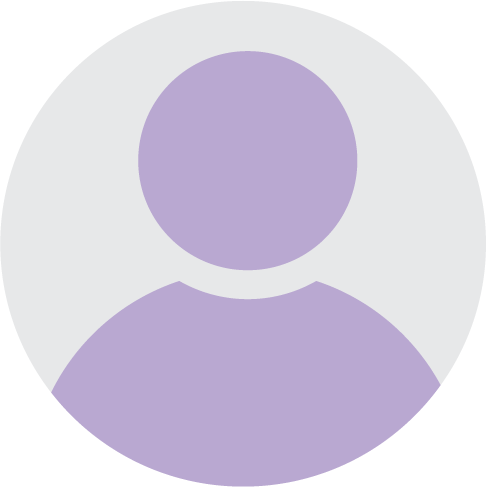
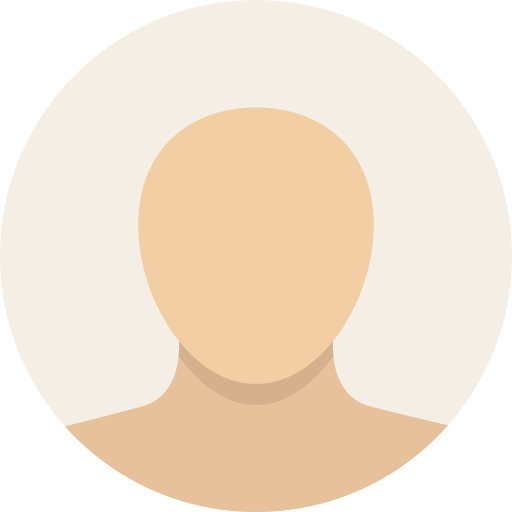
Profile colors seting was added.

diff --git a/app/assets/javascripts/application/i18n/translations.js b/app/assets/javascripts/application/i18n/translations.js
@@ -1,3 +1,3 @@
 I18n.translations || (I18n.translations = {});
-I18n.translations["en"] = I18n.extend((I18n.translations["en"] || {}), {"activerecord":{"attributes":{"question":{"answer":"Answer","text":"Question"},"user":{"avatar_url":"Your Avatar URL","email":"Login (email)","name":"Name","password":"Password","password_confirmation":"Confirm password","theme_color":"Background color","username":"Username"}},"errors":{"messages":{"record_invalid":"Validation failed: %{errors}","restrict_dependent_destroy":{"has_many":"Cannot delete record because dependent %{record} exist","has_one":"Cannot delete record because a dependent %{record} exists"}}},"models":{"question":"Question","user":"User"}},"app":{"name":"Good questions"},"controllers":{"app":{"access_denied":"Access denied"},"likes":{"already_liked":"You cannot like more than once","created":"Like successfully added","destroyed":"Like successfully deleted","register":"Register on the site to like questions."},"questions":{"created":"Question added","destroyed":"Question deleted","updated":"Question updated"},"sessions":{"create_error":"Invalid email or password","created":"Signed in successfully!","destroyed":"You are logged out. Come to us again!"},"users":{"already_logged_in":"You are already signed in!","created":"User successfully registered!","destroyed":"Your profile successfully deleted!","updated":"Your profile successfully updated!"}},"date":{"abbr_day_names":["Sun","Mon","Tue","Wed","Thu","Fri","Sat"],"abbr_month_names":[null,"Jan","Feb","Mar","Apr","May","Jun","Jul","Aug","Sep","Oct","Nov","Dec"],"day_names":["Sunday","Monday","Tuesday","Wednesday","Thursday","Friday","Saturday"],"formats":{"default":"%Y-%m-%d","long":"%B %d, %Y","short":"%b %d"},"month_names":[null,"January","February","March","April","May","June","July","August","September","October","November","December"],"order":["year","month","day"]},"datetime":{"distance_in_words":{"about_x_hours":{"one":"about 1 hour","other":"about %{count} hours"},"about_x_months":{"one":"about 1 month","other":"about %{count} months"},"about_x_years":{"one":"about 1 year","other":"about %{count} years"},"almost_x_years":{"one":"almost 1 year","other":"almost %{count} years"},"half_a_minute":"half a minute","less_than_x_minutes":{"one":"less than a minute","other":"less than %{count} minutes"},"less_than_x_seconds":{"one":"less than 1 second","other":"less than %{count} seconds"},"over_x_years":{"one":"over 1 year","other":"over %{count} years"},"x_days":{"one":"1 day","other":"%{count} days"},"x_minutes":{"one":"1 minute","other":"%{count} minutes"},"x_months":{"one":"1 month","other":"%{count} months"},"x_seconds":{"one":"1 second","other":"%{count} seconds"},"x_years":{"one":"1 year","other":"%{count} years"}},"prompts":{"day":"Day","hour":"Hour","minute":"Minute","month":"Month","second":"Seconds","year":"Year"}},"errors":{"attributes":{"username":{"invalid":"may include only latin letters, digits or underscores"}},"connection_refused":"Oops! Failed to connect to the Web Console middleware.\nPlease make sure a rails development server is running.\n","format":"%{attribute} %{message}","messages":{"accepted":"must be accepted","blank":"can't be blank","confirmation":"doesn't match %{attribute}","empty":"can't be empty","equal_to":"must be equal to %{count}","even":"must be even","exclusion":"is reserved","greater_than":"must be greater than %{count}","greater_than_or_equal_to":"must be greater than or equal to %{count}","inclusion":"is not included in the list","invalid":"is invalid","less_than":"must be less than %{count}","less_than_or_equal_to":"must be less than or equal to %{count}","model_invalid":"Validation failed: %{errors}","not_a_number":"is not a number","not_an_integer":"must be an integer","odd":"must be odd","other_than":"must be other than %{count}","present":"must be blank","required":"must exist","taken":"has already been taken","too_long":{"one":"is too long (maximum is 1 character)","other":"is too long (maximum is %{count} characters)"},"too_short":{"one":"is too short (minimum is 1 character)","other":"is too short (minimum is %{count} characters)"},"wrong_length":{"one":"is the wrong length (should be 1 character)","other":"is the wrong length (should be %{count} characters)"}},"template":{"body":"There were problems with the following fields:","header":{"one":"1 error prohibited this %{model} from being saved","other":"%{count} errors prohibited this %{model} from being saved"}},"unacceptable_request":"A supported version is expected in the Accept header.\n","unavailable_session":"Session %{id} is no longer available in memory.\n\nIf you happen to run on a multi-process server (like Unicorn or Puma) the process\nthis request hit doesn't store %{id} in memory. Consider turning the number of\nprocesses/workers to one (1) or using a different server in development.\n"},"hashtags":{"show":{"questions_with_tag":"Questions with hashtag: "}},"helpers":{"select":{"prompt":"Please select"},"submit":{"create":"Create %{model}","submit":"Save %{model}","update":"Update %{model}"}},"i18n":{"plural":{"keys":["one","other"],"rule":{}}},"layouts":{"user_menu":{"log_in":"Sign In","log_out":"Log Out","sign_up":"Sign Up"}},"number":{"currency":{"format":{"delimiter":",","format":"%u%n","precision":2,"separator":".","significant":false,"strip_insignificant_zeros":false,"unit":"$"}},"format":{"delimiter":",","precision":3,"separator":".","significant":false,"strip_insignificant_zeros":false},"human":{"decimal_units":{"format":"%n %u","units":{"billion":"Billion","million":"Million","quadrillion":"Quadrillion","thousand":"Thousand","trillion":"Trillion","unit":""}},"format":{"delimiter":"","precision":3,"significant":true,"strip_insignificant_zeros":true},"storage_units":{"format":"%n %u","units":{"byte":{"one":"Byte","other":"Bytes"},"eb":"EB","gb":"GB","kb":"KB","mb":"MB","pb":"PB","tb":"TB"}}},"percentage":{"format":{"delimiter":"","format":"%n%"}},"precision":{"format":{"delimiter":""}}},"questions":{"form":{"alt":" or ","back":"back","save":"Save"},"hashtag_question":{"empty":"There are no such questions on the site!","go_to_question":"(go to question)","question_for":"Question for "},"question":{"anonymous":"Guest of site","confirm_destroy":"Are you sure you want to delete this question?","dislike":"Dislike","like":"Like","likes":{"one":"%{count} Like","other":"%{count} Likes"},"link":{"copied":"Copied: %{link}","copy":"Copy question link to clipboard","name":"Link"},"question_number":"Question №%{count}"}},"recaptcha":{"errors":{"verification_failed":"Please, confirm that you're a human"}},"sessions":{"new":{"form":{"email":"Login (email)","password":"Password","sign_in":"Sign In"},"title":"Sign In"}},"support":{"array":{"last_word_connector":", and ","two_words_connector":" and ","words_connector":", "}},"time":{"am":"am","formats":{"default":"%a, %d %b %Y %H:%M:%S %z","long":"%B %d, %Y %H:%M","short":"%d %b %H:%M"},"pm":"pm"},"users":{"edit":{"form":{"confirm_destroy":"Are you sure you want to delete you account?","destroy":"Delete my account","new_password":"New password","new_password_confirmation":"Confirm new password","password_change":"Leave fields blank to keep your current password","save":"Save"},"title":"Edit profile"},"index":{"hashtags_title":"Our hashtags","users_title":"Our users"},"new":{"form":{"register":"Register now"},"title":"Join us!"},"show":{"answer":{"one":"answer","other":"answers"},"ask_me":"Ask me","edit":"Edit profile","form":{"ask":"Ask question","for":"Your question for"},"question":{"one":"question","other":"questions"},"unanswered":{"one":"unanswered","other":"unanswered"}}}});
-I18n.translations["ru"] = I18n.extend((I18n.translations["ru"] || {}), {"activerecord":{"attributes":{"question":{"answer":"Ответ","text":"Вопрос"},"user":{"avatar_url":"URL вашей аватарки","email":"Логин (email)","name":"Имя","password":"Пароль","password_confirmation":"Пароль ещё раз","theme_color":"Цвет фона","username":"Никнейм"}},"errors":{"messages":{"record_invalid":"Возникли ошибки: %{errors}","restrict_dependent_destroy":{"has_many":"Невозможно удалить запись, так как существуют зависимости: %{record}","has_one":"Невозможно удалить запись, так как существует зависимость: %{record}"}}},"models":{"question":"Вопрос","user":"Пользователь"}},"app":{"name":"Хорошие вопросы"},"controllers":{"app":{"access_denied":"В доступе отказано"},"likes":{"already_liked":"Вы не можете поставить лайк более одного раза","created":"Лайк успешно поставлен","destroyed":"Лайк успешно удалён","register":"Зарегистрируйтесь на сайте, чтобы ставить лайки к вопросам"},"questions":{"created":"Вопрос задан","destroyed":"Вопрос удалён","updated":"Вопрос изменён"},"sessions":{"create_error":"Неправильный email или пароль","created":"Вы успешно вошли в систему!","destroyed":"Вы вышли из системы. Приходите к нам ещё!"},"users":{"already_logged_in":"Вы уже вошли в систему!","created":"Пользователь успешно зарегистрирован!","destroyed":"Ваш профиль успешно удалён!","updated":"Ваш профиль успешно обновлён!"}},"date":{"abbr_day_names":["Вс","Пн","Вт","Ср","Чт","Пт","Сб"],"abbr_month_names":[null,"янв.","февр.","марта","апр.","мая","июня","июля","авг.","сент.","окт.","нояб.","дек."],"day_names":["воскресенье","понедельник","вторник","среда","четверг","пятница","суббота"],"formats":{"default":"%d.%m.%Y","long":"%-d %B %Y","short":"%-d %b"},"month_names":[null,"января","февраля","марта","апреля","мая","июня","июля","августа","сентября","октября","ноября","декабря"],"order":["day","month","year"]},"datetime":{"distance_in_words":{"about_x_hours":{"few":"около %{count} часов","many":"около %{count} часов","one":"около %{count} часа","other":"около %{count} часа"},"about_x_months":{"few":"около %{count} месяцев","many":"около %{count} месяцев","one":"около %{count} месяца","other":"около %{count} месяца"},"about_x_years":{"few":"около %{count} лет","many":"около %{count} лет","one":"около %{count} года","other":"около %{count} лет"},"almost_x_years":{"few":"почти %{count} года","many":"почти %{count} лет","one":"почти 1 год","other":"почти %{count} лет"},"half_a_minute":"меньше минуты","less_than_x_minutes":{"few":"меньше %{count} минут","many":"меньше %{count} минут","one":"меньше %{count} минуты","other":"меньше %{count} минуты"},"less_than_x_seconds":{"few":"меньше %{count} секунд","many":"меньше %{count} секунд","one":"меньше %{count} секунды","other":"меньше %{count} секунды"},"over_x_years":{"few":"больше %{count} лет","many":"больше %{count} лет","one":"больше %{count} года","other":"больше %{count} лет"},"x_days":{"few":"%{count} дня","many":"%{count} дней","one":"%{count} день","other":"%{count} дня"},"x_minutes":{"few":"%{count} минуты","many":"%{count} минут","one":"%{count} минуту","other":"%{count} минуты"},"x_months":{"few":"%{count} месяца","many":"%{count} месяцев","one":"%{count} месяц","other":"%{count} месяца"},"x_seconds":{"few":"%{count} секунды","many":"%{count} секунд","one":"%{count} секунду","other":"%{count} секунды"},"x_years":{"few":"%{count} года","many":"%{count} лет","one":"%{count} год","other":"%{count} года"}},"prompts":{"day":"День","hour":"Часов","minute":"Минут","month":"Месяц","second":"Секунд","year":"Год"}},"errors":{"attributes":{"username":{"invalid":"может содержать только латинские буквы, цифры и знак подчеркивания"}},"connection_refused":"Oops! Failed to connect to the Web Console middleware.\nPlease make sure a rails development server is running.\n","format":"%{attribute} %{message}","messages":{"accepted":"нужно подтвердить","blank":"не может быть пустым","confirmation":"не совпадает со значением поля %{attribute}","empty":"не может быть пустым","equal_to":"может иметь лишь значение, равное %{count}","even":"может иметь лишь нечетное значение","exclusion":"имеет зарезервированное значение","greater_than":"может иметь значение большее %{count}","greater_than_or_equal_to":"может иметь значение большее или равное %{count}","inclusion":"имеет непредусмотренное значение","invalid":"имеет неверное значение","less_than":"может иметь значение меньшее чем %{count}","less_than_or_equal_to":"может иметь значение меньшее или равное %{count}","model_invalid":"Возникли ошибки: %{errors}","not_a_number":"не является числом","not_an_integer":"не является целым числом","odd":"может иметь лишь четное значение","other_than":"должно отличаться от %{count}","present":"нужно оставить пустым","required":"не может отсутствовать","taken":"уже существует","too_long":{"few":"слишком большой длины (не может быть больше чем %{count} символа)","many":"слишком большой длины (не может быть больше чем %{count} символов)","one":"слишком большой длины (не может быть больше чем %{count} символ)","other":"слишком большой длины (не может быть больше чем %{count} символа)"},"too_short":{"few":"недостаточной длины (не может быть меньше %{count} символов)","many":"недостаточной длины (не может быть меньше %{count} символов)","one":"недостаточной длины (не может быть меньше %{count} символа)","other":"недостаточной длины (не может быть меньше %{count} символа)"},"wrong_length":{"few":"неверной длины (может быть длиной ровно %{count} символа)","many":"неверной длины (может быть длиной ровно %{count} символов)","one":"неверной длины (может быть длиной ровно %{count} символ)","other":"неверной длины (может быть длиной ровно %{count} символа)"}},"template":{"body":"Проблемы возникли со следующими полями:","header":{"few":"%{model}: сохранение не удалось из-за %{count} ошибок","many":"%{model}: сохранение не удалось из-за %{count} ошибок","one":"%{model}: сохранение не удалось из-за %{count} ошибки","other":"%{model}: сохранение не удалось из-за %{count} ошибки"}},"unacceptable_request":"A supported version is expected in the Accept header.\n","unavailable_session":"Session %{id} is no longer available in memory.\n\nIf you happen to run on a multi-process server (like Unicorn or Puma) the process\nthis request hit doesn't store %{id} in memory. Consider turning the number of\nprocesses/workers to one (1) or using a different server in development.\n"},"hashtags":{"show":{"questions_with_tag":"Вопросы с хэштегом: "}},"helpers":{"select":{"prompt":"Выберите: "},"submit":{"create":"Создать %{model}","submit":"Сохранить %{model}","update":"Сохранить %{model}"}},"i18n":{"plural":{"keys":["one","few","many","other"],"rule":{}},"transliterate":{"rule":{}}},"layouts":{"user_menu":{"log_in":"Войти","log_out":"Выйти","sign_up":"Зарегистрироваться"}},"number":{"currency":{"format":{"delimiter":" ","format":"%n %u","precision":2,"separator":",","significant":false,"strip_insignificant_zeros":false,"unit":"руб."}},"format":{"delimiter":" ","precision":3,"separator":",","significant":false,"strip_insignificant_zeros":false},"human":{"decimal_units":{"format":"%n %u","units":{"billion":{"few":"миллиардов","many":"миллиардов","one":"миллиард","other":"миллиардов"},"million":{"few":"миллионов","many":"миллионов","one":"миллион","other":"миллионов"},"quadrillion":{"few":"квадриллионов","many":"квадриллионов","one":"квадриллион","other":"квадриллионов"},"thousand":{"few":"тысяч","many":"тысяч","one":"тысяча","other":"тысяч"},"trillion":{"few":"триллионов","many":"триллионов","one":"триллион","other":"триллионов"},"unit":""}},"format":{"delimiter":"","precision":1,"significant":false,"strip_insignificant_zeros":false},"storage_units":{"format":"%n %u","units":{"byte":{"few":"байта","many":"байт","one":"байт","other":"байта"},"eb":"ЭБ","gb":"ГБ","kb":"КБ","mb":"МБ","pb":"ПБ","tb":"ТБ"}}},"percentage":{"format":{"delimiter":"","format":"%n%"}},"precision":{"format":{"delimiter":""}}},"questions":{"form":{"alt":" или ","back":"вернуться","save":"Сохранить"},"hashtag_question":{"empty":"Таких вопросов не существует на сайте!","go_to_question":"(перейти к вопросу)","question_for":"Вопрос для "},"question":{"anonymous":"Гость сайта","confirm_destroy":"Точно удалить вопрос?","dislike":"Дизлайк","like":"Лайк","likes":{"few":"%{count} Лайка","many":"%{count} Лайков","one":"%{count} Лайк","other":"%{count} Лайков"},"link":{"copied":"Скопировано: %{link}","copy":"Скопировать ссылку на вопрос в буфер обмена","name":"Ссылка"},"question_number":"Вопрос №%{count}"}},"recaptcha":{"errors":{"verification_failed":"Пожалуйста, подтвердите, что вы не робот"}},"sessions":{"new":{"form":{"email":"Логин (email)","password":"Пароль","sign_in":"Войти"},"title":"Войти на сайт"}},"support":{"array":{"last_word_connector":" и ","two_words_connector":" и ","words_connector":", "}},"time":{"am":"утра","formats":{"default":"%a, %d %b %Y, %H:%M:%S %z","long":"%d %B %Y, %H:%M","short":"%d %b, %H:%M"},"pm":"вечера"},"users":{"edit":{"form":{"confirm_destroy":"Вы уверены, что хотите удалить свой аккаунт?","destroy":"Удалить аккаунт","new_password":"Новый пароль","new_password_confirmation":"Новый пароль ещё раз","password_change":"Если не хотите менять пароль - оставьте эти поля пустыми!","save":"Сохранить"},"title":"Править профиль"},"index":{"hashtags_title":"Наши хэштеги","users_title":"Наши пользователи"},"new":{"form":{"register":"Зарегистрироваться"},"title":"Присоединяйся к нам!"},"show":{"answer":{"few":"ответа","many":"ответов","one":"ответ","other":"ответов"},"ask_me":"Спроси меня","edit":"Редактировать профиль","form":{"ask":"Задать вопрос","for":"Ваш вопрос для"},"question":{"few":"вопроса","many":"вопросов","one":"вопрос","other":"вопросов"},"unanswered":{"few":"безответных","many":"безответных","one":"безответный","other":"безответных"}}}});
+I18n.translations["en"] = I18n.extend((I18n.translations["en"] || {}), {"activerecord":{"attributes":{"question":{"answer":"Answer","text":"Question"},"user":{"avatar_bg_color":"Background color","avatar_border_color":"Border color","avatar_url":"Your Avatar URL","email":"Login (email)","name":"Name","password":"Password","password_confirmation":"Confirm password","profile_text_color":"Text color","username":"Username"}},"errors":{"messages":{"record_invalid":"Validation failed: %{errors}","restrict_dependent_destroy":{"has_many":"Cannot delete record because dependent %{record} exist","has_one":"Cannot delete record because a dependent %{record} exists"}}},"models":{"question":"Question","user":"User"}},"app":{"name":"Good questions"},"controllers":{"app":{"access_denied":"Access denied"},"likes":{"already_liked":"You cannot like more than once","created":"Like successfully added","destroyed":"Like successfully deleted","register":"Register on the site to like questions."},"questions":{"created":"Question added","destroyed":"Question deleted","updated":"Question updated"},"sessions":{"create_error":"Invalid email or password","created":"Signed in successfully!","destroyed":"You are logged out. Come to us again!"},"users":{"already_logged_in":"You are already signed in!","created":"User successfully registered!","destroyed":"Your profile successfully deleted!","updated":"Your profile successfully updated!"}},"date":{"abbr_day_names":["Sun","Mon","Tue","Wed","Thu","Fri","Sat"],"abbr_month_names":[null,"Jan","Feb","Mar","Apr","May","Jun","Jul","Aug","Sep","Oct","Nov","Dec"],"day_names":["Sunday","Monday","Tuesday","Wednesday","Thursday","Friday","Saturday"],"formats":{"default":"%Y-%m-%d","long":"%B %d, %Y","short":"%b %d"},"month_names":[null,"January","February","March","April","May","June","July","August","September","October","November","December"],"order":["year","month","day"]},"datetime":{"distance_in_words":{"about_x_hours":{"one":"about 1 hour","other":"about %{count} hours"},"about_x_months":{"one":"about 1 month","other":"about %{count} months"},"about_x_years":{"one":"about 1 year","other":"about %{count} years"},"almost_x_years":{"one":"almost 1 year","other":"almost %{count} years"},"half_a_minute":"half a minute","less_than_x_minutes":{"one":"less than a minute","other":"less than %{count} minutes"},"less_than_x_seconds":{"one":"less than 1 second","other":"less than %{count} seconds"},"over_x_years":{"one":"over 1 year","other":"over %{count} years"},"x_days":{"one":"1 day","other":"%{count} days"},"x_minutes":{"one":"1 minute","other":"%{count} minutes"},"x_months":{"one":"1 month","other":"%{count} months"},"x_seconds":{"one":"1 second","other":"%{count} seconds"},"x_years":{"one":"1 year","other":"%{count} years"}},"prompts":{"day":"Day","hour":"Hour","minute":"Minute","month":"Month","second":"Seconds","year":"Year"}},"errors":{"attributes":{"username":{"invalid":"may include only latin letters, digits or underscores"}},"connection_refused":"Oops! Failed to connect to the Web Console middleware.\nPlease make sure a rails development server is running.\n","format":"%{attribute} %{message}","messages":{"accepted":"must be accepted","blank":"can't be blank","confirmation":"doesn't match %{attribute}","empty":"can't be empty","equal_to":"must be equal to %{count}","even":"must be even","exclusion":"is reserved","greater_than":"must be greater than %{count}","greater_than_or_equal_to":"must be greater than or equal to %{count}","inclusion":"is not included in the list","invalid":"is invalid","less_than":"must be less than %{count}","less_than_or_equal_to":"must be less than or equal to %{count}","model_invalid":"Validation failed: %{errors}","not_a_number":"is not a number","not_an_integer":"must be an integer","odd":"must be odd","other_than":"must be other than %{count}","present":"must be blank","required":"must exist","taken":"has already been taken","too_long":{"one":"is too long (maximum is 1 character)","other":"is too long (maximum is %{count} characters)"},"too_short":{"one":"is too short (minimum is 1 character)","other":"is too short (minimum is %{count} characters)"},"wrong_length":{"one":"is the wrong length (should be 1 character)","other":"is the wrong length (should be %{count} characters)"}},"template":{"body":"There were problems with the following fields:","header":{"one":"1 error prohibited this %{model} from being saved","other":"%{count} errors prohibited this %{model} from being saved"}},"unacceptable_request":"A supported version is expected in the Accept header.\n","unavailable_session":"Session %{id} is no longer available in memory.\n\nIf you happen to run on a multi-process server (like Unicorn or Puma) the process\nthis request hit doesn't store %{id} in memory. Consider turning the number of\nprocesses/workers to one (1) or using a different server in development.\n"},"hashtags":{"show":{"questions_with_tag":"Questions with hashtag: "}},"helpers":{"select":{"prompt":"Please select"},"submit":{"create":"Create %{model}","submit":"Save %{model}","update":"Update %{model}"}},"i18n":{"plural":{"keys":["one","other"],"rule":{}}},"layouts":{"user_menu":{"log_in":"Sign In","log_out":"Log Out","sign_up":"Sign Up"}},"number":{"currency":{"format":{"delimiter":",","format":"%u%n","precision":2,"separator":".","significant":false,"strip_insignificant_zeros":false,"unit":"$"}},"format":{"delimiter":",","precision":3,"separator":".","significant":false,"strip_insignificant_zeros":false},"human":{"decimal_units":{"format":"%n %u","units":{"billion":"Billion","million":"Million","quadrillion":"Quadrillion","thousand":"Thousand","trillion":"Trillion","unit":""}},"format":{"delimiter":"","precision":3,"significant":true,"strip_insignificant_zeros":true},"storage_units":{"format":"%n %u","units":{"byte":{"one":"Byte","other":"Bytes"},"eb":"EB","gb":"GB","kb":"KB","mb":"MB","pb":"PB","tb":"TB"}}},"percentage":{"format":{"delimiter":"","format":"%n%"}},"precision":{"format":{"delimiter":""}}},"questions":{"form":{"alt":" or ","back":"back","save":"Save"},"hashtag_question":{"empty":"There are no such questions on the site!","go_to_question":"(go to question)","question_for":"Question for "},"question":{"anonymous":"Guest of site","confirm_destroy":"Are you sure you want to delete this question?","dislike":"Dislike","like":"Like","likes":{"one":"%{count} Like","other":"%{count} Likes"},"link":{"copied":"Copied: %{link}","copy":"Copy question link to clipboard","name":"Link"},"question_number":"Question №%{count}"}},"recaptcha":{"errors":{"verification_failed":"Please, confirm that you're a human"}},"sessions":{"new":{"form":{"email":"Login (email)","password":"Password","sign_in":"Sign In"},"title":"Sign In"}},"support":{"array":{"last_word_connector":", and ","two_words_connector":" and ","words_connector":", "}},"time":{"am":"am","formats":{"default":"%a, %d %b %Y %H:%M:%S %z","long":"%B %d, %Y %H:%M","short":"%d %b %H:%M"},"pm":"pm"},"users":{"edit":{"form":{"color_preferences":"Profile colors setting","confirm_destroy":"Are you sure you want to delete you account?","destroy":"Delete my account","new_password":"New password","new_password_confirmation":"Confirm new password","password_change":"Leave fields blank to keep your current password","reset_colors":"Reset to default colors","save":"Save"},"title":"Edit profile"},"index":{"hashtags_title":"Our hashtags","users_title":"Our users"},"new":{"form":{"register":"Register now"},"title":"Join us!"},"show":{"answer":{"one":"answer","other":"answers"},"ask_me":"Ask me","edit":"Edit profile","form":{"ask":"Ask question","for":"Your question for"},"question":{"one":"question","other":"questions"},"unanswered":{"one":"unanswered","other":"unanswered"}}}});
+I18n.translations["ru"] = I18n.extend((I18n.translations["ru"] || {}), {"activerecord":{"attributes":{"question":{"answer":"Ответ","text":"Вопрос"},"user":{"avatar_bg_color":"Цвет фона","avatar_border_color":"Цвет рамки","avatar_url":"URL вашей аватарки","email":"Логин (email)","name":"Имя","password":"Пароль","password_confirmation":"Пароль ещё раз","profile_text_color":"Цвет текста","username":"Никнейм"}},"errors":{"messages":{"record_invalid":"Возникли ошибки: %{errors}","restrict_dependent_destroy":{"has_many":"Невозможно удалить запись, так как существуют зависимости: %{record}","has_one":"Невозможно удалить запись, так как существует зависимость: %{record}"}}},"models":{"question":"Вопрос","user":"Пользователь"}},"app":{"name":"Хорошие вопросы"},"controllers":{"app":{"access_denied":"В доступе отказано"},"likes":{"already_liked":"Вы не можете поставить лайк более одного раза","created":"Лайк успешно поставлен","destroyed":"Лайк успешно удалён","register":"Зарегистрируйтесь на сайте, чтобы ставить лайки к вопросам"},"questions":{"created":"Вопрос задан","destroyed":"Вопрос удалён","updated":"Вопрос изменён"},"sessions":{"create_error":"Неправильный email или пароль","created":"Вы успешно вошли в систему!","destroyed":"Вы вышли из системы. Приходите к нам ещё!"},"users":{"already_logged_in":"Вы уже вошли в систему!","created":"Пользователь успешно зарегистрирован!","destroyed":"Ваш профиль успешно удалён!","updated":"Ваш профиль успешно обновлён!"}},"date":{"abbr_day_names":["Вс","Пн","Вт","Ср","Чт","Пт","Сб"],"abbr_month_names":[null,"янв.","февр.","марта","апр.","мая","июня","июля","авг.","сент.","окт.","нояб.","дек."],"day_names":["воскресенье","понедельник","вторник","среда","четверг","пятница","суббота"],"formats":{"default":"%d.%m.%Y","long":"%-d %B %Y","short":"%-d %b"},"month_names":[null,"января","февраля","марта","апреля","мая","июня","июля","августа","сентября","октября","ноября","декабря"],"order":["day","month","year"]},"datetime":{"distance_in_words":{"about_x_hours":{"few":"около %{count} часов","many":"около %{count} часов","one":"около %{count} часа","other":"около %{count} часа"},"about_x_months":{"few":"около %{count} месяцев","many":"около %{count} месяцев","one":"около %{count} месяца","other":"около %{count} месяца"},"about_x_years":{"few":"около %{count} лет","many":"около %{count} лет","one":"около %{count} года","other":"около %{count} лет"},"almost_x_years":{"few":"почти %{count} года","many":"почти %{count} лет","one":"почти 1 год","other":"почти %{count} лет"},"half_a_minute":"меньше минуты","less_than_x_minutes":{"few":"меньше %{count} минут","many":"меньше %{count} минут","one":"меньше %{count} минуты","other":"меньше %{count} минуты"},"less_than_x_seconds":{"few":"меньше %{count} секунд","many":"меньше %{count} секунд","one":"меньше %{count} секунды","other":"меньше %{count} секунды"},"over_x_years":{"few":"больше %{count} лет","many":"больше %{count} лет","one":"больше %{count} года","other":"больше %{count} лет"},"x_days":{"few":"%{count} дня","many":"%{count} дней","one":"%{count} день","other":"%{count} дня"},"x_minutes":{"few":"%{count} минуты","many":"%{count} минут","one":"%{count} минуту","other":"%{count} минуты"},"x_months":{"few":"%{count} месяца","many":"%{count} месяцев","one":"%{count} месяц","other":"%{count} месяца"},"x_seconds":{"few":"%{count} секунды","many":"%{count} секунд","one":"%{count} секунду","other":"%{count} секунды"},"x_years":{"few":"%{count} года","many":"%{count} лет","one":"%{count} год","other":"%{count} года"}},"prompts":{"day":"День","hour":"Часов","minute":"Минут","month":"Месяц","second":"Секунд","year":"Год"}},"errors":{"attributes":{"username":{"invalid":"может содержать только латинские буквы, цифры и знак подчеркивания"}},"connection_refused":"Oops! Failed to connect to the Web Console middleware.\nPlease make sure a rails development server is running.\n","format":"%{attribute} %{message}","messages":{"accepted":"нужно подтвердить","blank":"не может быть пустым","confirmation":"не совпадает со значением поля %{attribute}","empty":"не может быть пустым","equal_to":"может иметь лишь значение, равное %{count}","even":"может иметь лишь нечетное значение","exclusion":"имеет зарезервированное значение","greater_than":"может иметь значение большее %{count}","greater_than_or_equal_to":"может иметь значение большее или равное %{count}","inclusion":"имеет непредусмотренное значение","invalid":"имеет неверное значение","less_than":"может иметь значение меньшее чем %{count}","less_than_or_equal_to":"может иметь значение меньшее или равное %{count}","model_invalid":"Возникли ошибки: %{errors}","not_a_number":"не является числом","not_an_integer":"не является целым числом","odd":"может иметь лишь четное значение","other_than":"должно отличаться от %{count}","present":"нужно оставить пустым","required":"не может отсутствовать","taken":"уже существует","too_long":{"few":"слишком большой длины (не может быть больше чем %{count} символа)","many":"слишком большой длины (не может быть больше чем %{count} символов)","one":"слишком большой длины (не может быть больше чем %{count} символ)","other":"слишком большой длины (не может быть больше чем %{count} символа)"},"too_short":{"few":"недостаточной длины (не может быть меньше %{count} символов)","many":"недостаточной длины (не может быть меньше %{count} символов)","one":"недостаточной длины (не может быть меньше %{count} символа)","other":"недостаточной длины (не может быть меньше %{count} символа)"},"wrong_length":{"few":"неверной длины (может быть длиной ровно %{count} символа)","many":"неверной длины (может быть длиной ровно %{count} символов)","one":"неверной длины (может быть длиной ровно %{count} символ)","other":"неверной длины (может быть длиной ровно %{count} символа)"}},"template":{"body":"Проблемы возникли со следующими полями:","header":{"few":"%{model}: сохранение не удалось из-за %{count} ошибок","many":"%{model}: сохранение не удалось из-за %{count} ошибок","one":"%{model}: сохранение не удалось из-за %{count} ошибки","other":"%{model}: сохранение не удалось из-за %{count} ошибки"}},"unacceptable_request":"A supported version is expected in the Accept header.\n","unavailable_session":"Session %{id} is no longer available in memory.\n\nIf you happen to run on a multi-process server (like Unicorn or Puma) the process\nthis request hit doesn't store %{id} in memory. Consider turning the number of\nprocesses/workers to one (1) or using a different server in development.\n"},"hashtags":{"show":{"questions_with_tag":"Вопросы с хэштегом: "}},"helpers":{"select":{"prompt":"Выберите: "},"submit":{"create":"Создать %{model}","submit":"Сохранить %{model}","update":"Сохранить %{model}"}},"i18n":{"plural":{"keys":["one","few","many","other"],"rule":{}},"transliterate":{"rule":{}}},"layouts":{"user_menu":{"log_in":"Войти","log_out":"Выйти","sign_up":"Зарегистрироваться"}},"number":{"currency":{"format":{"delimiter":" ","format":"%n %u","precision":2,"separator":",","significant":false,"strip_insignificant_zeros":false,"unit":"руб."}},"format":{"delimiter":" ","precision":3,"separator":",","significant":false,"strip_insignificant_zeros":false},"human":{"decimal_units":{"format":"%n %u","units":{"billion":{"few":"миллиардов","many":"миллиардов","one":"миллиард","other":"миллиардов"},"million":{"few":"миллионов","many":"миллионов","one":"миллион","other":"миллионов"},"quadrillion":{"few":"квадриллионов","many":"квадриллионов","one":"квадриллион","other":"квадриллионов"},"thousand":{"few":"тысяч","many":"тысяч","one":"тысяча","other":"тысяч"},"trillion":{"few":"триллионов","many":"триллионов","one":"триллион","other":"триллионов"},"unit":""}},"format":{"delimiter":"","precision":1,"significant":false,"strip_insignificant_zeros":false},"storage_units":{"format":"%n %u","units":{"byte":{"few":"байта","many":"байт","one":"байт","other":"байта"},"eb":"ЭБ","gb":"ГБ","kb":"КБ","mb":"МБ","pb":"ПБ","tb":"ТБ"}}},"percentage":{"format":{"delimiter":"","format":"%n%"}},"precision":{"format":{"delimiter":""}}},"questions":{"form":{"alt":" или ","back":"вернуться","save":"Сохранить"},"hashtag_question":{"empty":"Таких вопросов не существует на сайте!","go_to_question":"(перейти к вопросу)","question_for":"Вопрос для "},"question":{"anonymous":"Гость сайта","confirm_destroy":"Точно удалить вопрос?","dislike":"Дизлайк","like":"Лайк","likes":{"few":"%{count} Лайка","many":"%{count} Лайков","one":"%{count} Лайк","other":"%{count} Лайков"},"link":{"copied":"Скопировано: %{link}","copy":"Скопировать ссылку на вопрос в буфер обмена","name":"Ссылка"},"question_number":"Вопрос №%{count}"}},"recaptcha":{"errors":{"verification_failed":"Пожалуйста, подтвердите, что вы не робот"}},"sessions":{"new":{"form":{"email":"Логин (email)","password":"Пароль","sign_in":"Войти"},"title":"Войти на сайт"}},"support":{"array":{"last_word_connector":" и ","two_words_connector":" и ","words_connector":", "}},"time":{"am":"утра","formats":{"default":"%a, %d %b %Y, %H:%M:%S %z","long":"%d %B %Y, %H:%M","short":"%d %b, %H:%M"},"pm":"вечера"},"users":{"edit":{"form":{"color_preferences":"Настройка цветов профиля","confirm_destroy":"Вы уверены, что хотите удалить свой аккаунт?","destroy":"Удалить аккаунт","new_password":"Новый пароль","new_password_confirmation":"Новый пароль ещё раз","password_change":"Если не хотите менять пароль - оставьте эти поля пустыми!","reset_colors":"Вернуть цвета по умолчанию","save":"Сохранить"},"title":"Править профиль"},"index":{"hashtags_title":"Наши хэштеги","users_title":"Наши пользователи"},"new":{"form":{"register":"Зарегистрироваться"},"title":"Присоединяйся к нам!"},"show":{"answer":{"few":"ответа","many":"ответов","one":"ответ","other":"ответов"},"ask_me":"Спроси меня","edit":"Редактировать профиль","form":{"ask":"Задать вопрос","for":"Ваш вопрос для"},"question":{"few":"вопроса","many":"вопросов","one":"вопрос","other":"вопросов"},"unanswered":{"few":"безответных","many":"безответных","one":"безответный","other":"безответных"}}}});

diff --git a/app/assets/stylesheets/form.css b/app/assets/stylesheets/form.css
@@ -22,6 +22,17 @@
   font-size: 16px;
 }
 
+.form-label-color {
+  display: inline-block;
+  width: 130px;
+  margin-bottom: 5px;
+}
+
+.form-color-field {
+  width: 50px;
+  height: 25px;
+}
+
 .form-action {
   margin-top: 20px;
 }

diff --git a/app/assets/stylesheets/grid.css b/app/assets/stylesheets/grid.css
@@ -62,6 +62,11 @@
   width: 33.33%;
 }
 
+.column-1-3-right {
+  float: right;
+  width: 33.33%;
+}
+
 @media (max-width: 960px) {
   .column-3-4,
   .column-1-4,

diff --git a/app/models/user.rb b/app/models/user.rb
@@ -10,7 +10,8 @@ class User < ApplicationRecord
 
   validates :username, presence: true, uniqueness: true, length: { maximum: 40 }, format: { with: /\A[0-9a-z_]+\z/i }
   validates :email, presence: true, uniqueness: true, format: { with: /\A[^@\s]+@(?:[-a-z0-9]+\.)+[a-z]{2,}\z/i}
-  validates :theme_color, format: { with: /\A#[\h]{6}\z/ }
+  validates :avatar_bg_color, :avatar_border_color, :profile_text_color,
+            format: { with: /\A#[\h]{6}\z/ }, allow_nil: true
 
   # Второй способ валидации почты пользователя с помощью gem email_address
   # https://github.com/afair/email_address

diff --git a/db/schema.rb b/db/schema.rb
@@ -10,7 +10,7 @@
 #
 # It's strongly recommended that you check this file into your version control system.
 
-ActiveRecord::Schema.define(version: 2019_02_25_101439) do
+ActiveRecord::Schema.define(version: 2019_03_08_101100) do
 
   create_table "hashtags", force: :cascade do |t|
     t.string "name"
@@ -54,7 +54,9 @@ ActiveRecord::Schema.define(version: 2019_02_25_101439) do
     t.string "password_hash"
     t.string "password_salt"
     t.string "avatar_url"
-    t.string "theme_color", default: "#005a55"
+    t.string "avatar_bg_color"
+    t.string "avatar_border_color"
+    t.string "profile_text_color"
   end
 
 end

diff --git a/app/helpers/application_helper.rb b/app/helpers/application_helper.rb
@@ -17,4 +17,16 @@ module ApplicationHelper
     regexp = /(?:\s|^)#(?!(?:[[:digit:]]+|[[:alpha:]]+?_|_[[:alpha:]]+?)(?:\s|$))([[:alnum:]]+(?:_[[:alnum:]]+)*)(?=\s|$)/
     text.gsub(regexp) { |word| link_to(word, hashtag_path(word.strip.delete('#')), class: 'hashtag-link') }.html_safe
   end
+
+  def user_bg_color(user)
+    user.avatar_bg_color || '#005a55'
+  end
+
+  def user_border_color(user)
+    user.avatar_border_color || '#00b6ad'
+  end
+
+  def user_text_color(user)
+    user.profile_text_color || '#ffffff'
+  end
 end

diff --git a/db/migrate/20190308094407_add_user_colors_to_users.rb b/db/migrate/20190308094407_add_user_colors_to_users.rb
@@ -1,0 +1,7 @@
+class AddUserColorsToUsers < ActiveRecord::Migration[5.2]
+  def change
+    add_column :users, :avatar_bg_color, :string
+    add_column :users, :avatar_border_color, :string
+    add_column :users, :profile_text_color, :string
+  end
+end

diff --git a/db/migrate/20190308101100_remove_theme_color_from_users.rb b/db/migrate/20190308101100_remove_theme_color_from_users.rb
@@ -1,0 +1,5 @@
+class RemoveThemeColorFromUsers < ActiveRecord::Migration[5.2]
+  def change
+    remove_column :users, :theme_color, :string
+  end
+end
